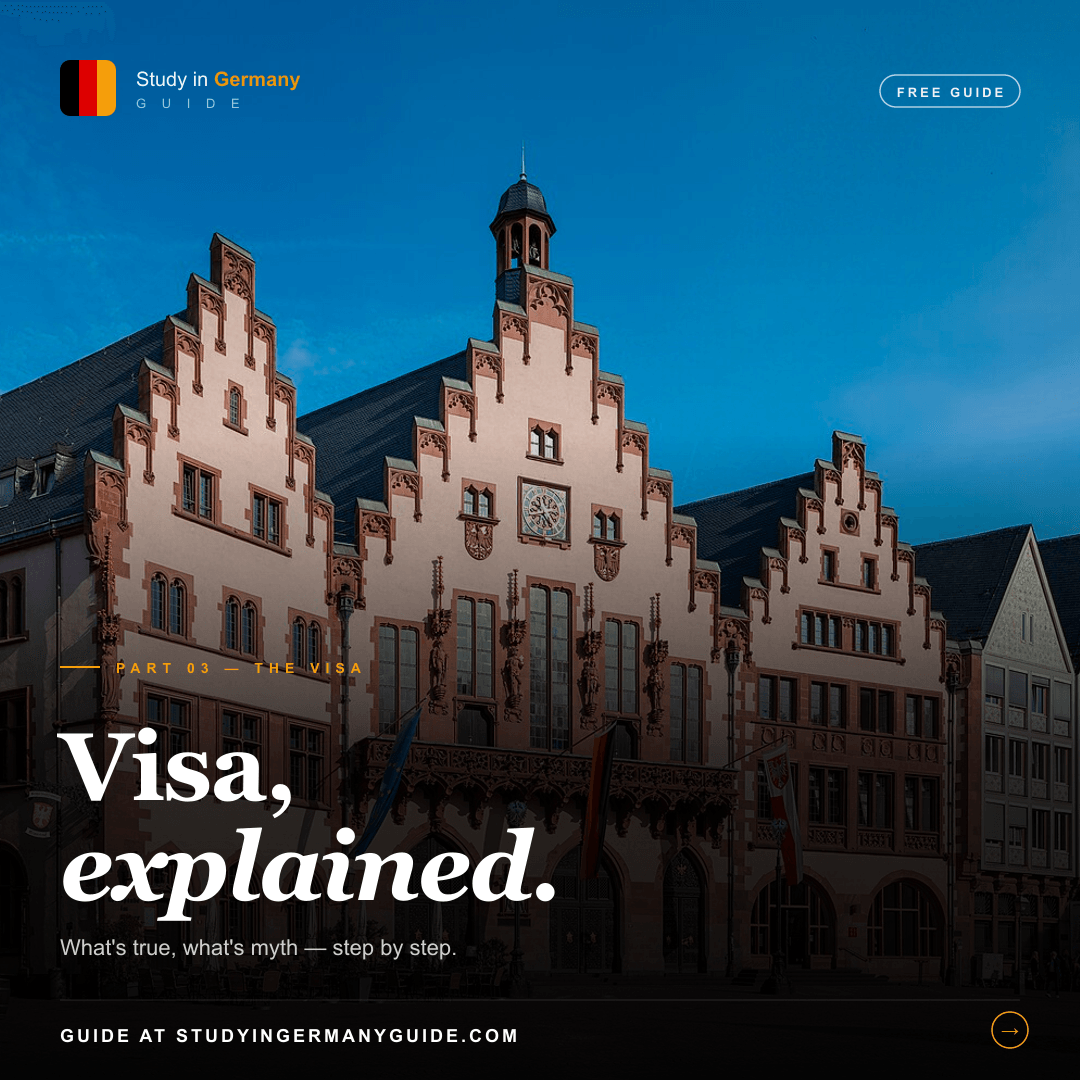
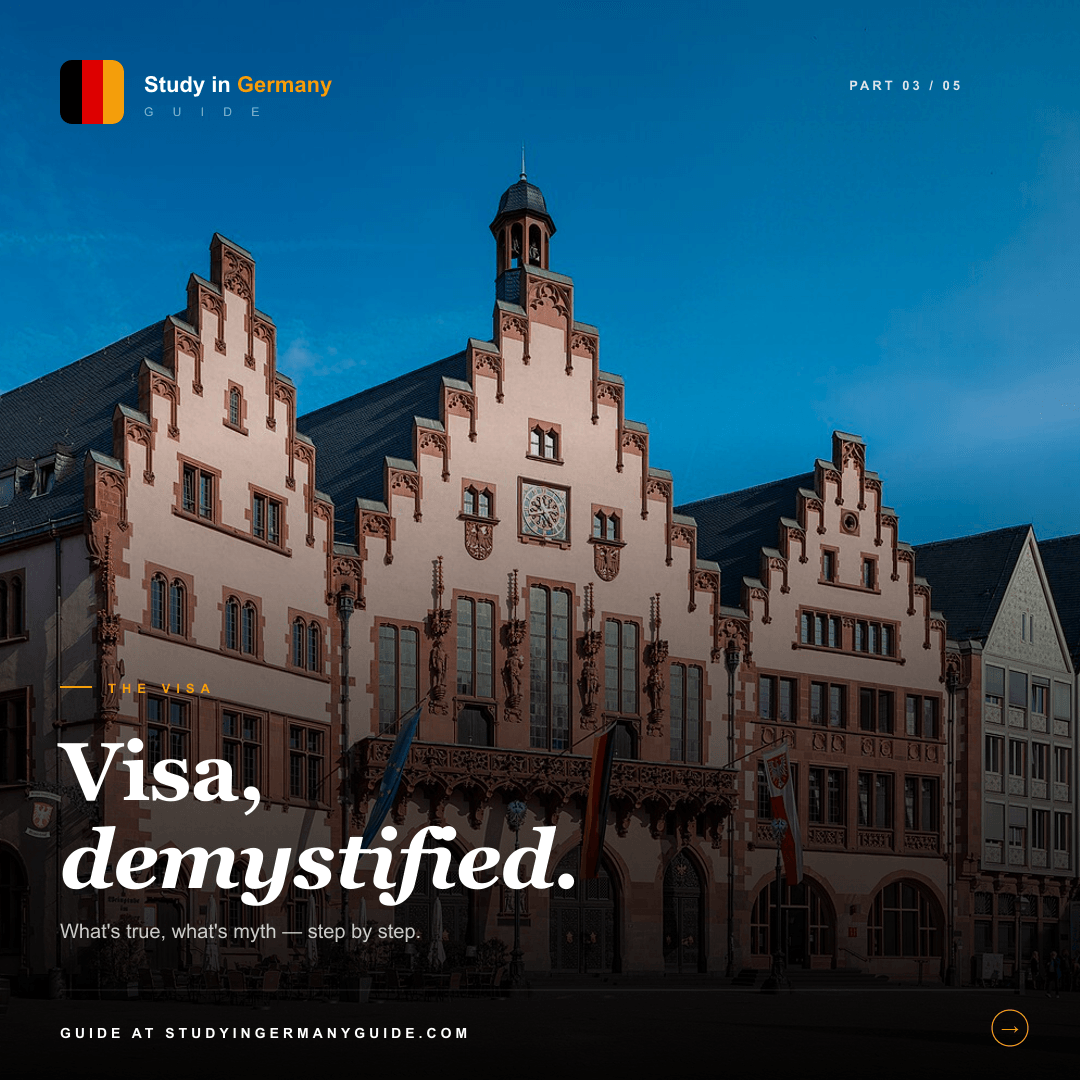
Refined editorial series: brand block + series indicator + decent typography

diff --git a/scripts/generate-posts.js b/scripts/generate-posts.js
@@ -1,21 +1,19 @@
-// Generate PREMIUM Instagram posts — refined editorial style
-// Real photo + smooth gradient + actual SG logo + refined typography
+// PREMIUM editorial Instagram series — real photo + actual brand logo + refined text
 import sharp from "sharp";
 import path from "path";
-import { readFile } from "fs/promises";
 
 const OUT = path.resolve("public/insta-posts");
 
 // ━━━━━━━━━━━━━━━━━━━━━━━━━━━━━━━━━━━━━━━━━━━━━
-// Smooth bottom gradient overlay
+// Smooth bottom gradient — text legibility on photo
 // ━━━━━━━━━━━━━━━━━━━━━━━━━━━━━━━━━━━━━━━━━━━━━
 function gradientOverlay() {
   return Buffer.from(`<svg xmlns="http://www.w3.org/2000/svg" width="1080" height="1080">
     <defs>
       <linearGradient id="g" x1="0" y1="0" x2="0" y2="1">
-        <stop offset="0%"  stop-color="black" stop-opacity="0.15"/>
+        <stop offset="0%"  stop-color="black" stop-opacity="0.20"/>
         <stop offset="40%" stop-color="black" stop-opacity="0.05"/>
-        <stop offset="70%" stop-color="black" stop-opacity="0.78"/>
+        <stop offset="65%" stop-color="black" stop-opacity="0.55"/>
         <stop offset="100%" stop-color="black" stop-opacity="0.95"/>
       </linearGradient>
     </defs>
@@ -24,73 +22,135 @@ function gradientOverlay() {
 }
 
 // ━━━━━━━━━━━━━━━━━━━━━━━━━━━━━━━━━━━━━━━━━━━━━
-// Top brand bar — actual SG logo + small caps wordmark
+// Brand block — matches real logo: flag + "Study in Germany" + GUIDE
 // ━━━━━━━━━━━━━━━━━━━━━━━━━━━━━━━━━━━━━━━━━━━━━
-function topBrandOverlay() {
+function brandBlock() {
   return Buffer.from(`<svg xmlns="http://www.w3.org/2000/svg" width="1080" height="1080">
-    <!-- Top-left brand block -->
+    <!-- Top-left: brand block -->
     <g transform="translate(60, 60)">
-      <!-- German flag mini icon (matches site header exactly) -->
+      <!-- German flag mini (rounded, matches logo exactly) -->
       <defs>
         <clipPath id="rf">
-          <rect x="0" y="0" width="56" height="56" rx="10" ry="10"/>
+          <rect x="0" y="0" width="64" height="64" rx="12" ry="12"/>
         </clipPath>
       </defs>
       <g clip-path="url(#rf)">
-        <rect x="0"  y="0" width="19" height="56" fill="#000000"/>
-        <rect x="19" y="0" width="18" height="56" fill="#DD0000"/>
-        <rect x="37" y="0" width="19" height="56" fill="#F59E0B"/>
+        <rect x="0"  y="0" width="22" height="64" fill="#000000"/>
+        <rect x="22" y="0" width="21" height="64" fill="#DD0000"/>
+        <rect x="43" y="0" width="21" height="64" fill="#F59E0B"/>
       </g>
-      <!-- Wordmark — refined, smaller -->
-      <text x="76" y="26" font-family="Arial, sans-serif" font-size="20" font-weight="400" fill="#FFFFFF" opacity="0.95">Study in <tspan fill="#F59E0B" font-weight="700">Germany</tspan></text>
-      <text x="76" y="48" font-family="Arial, sans-serif" font-size="13" font-weight="500" fill="#FFFFFF" opacity="0.6" letter-spacing="6">G U I D E</text>
-    </g>
 
-    <!-- Top-right: subtle badge -->
-    <g transform="translate(880, 75)">
-      <rect x="0" y="0" width="140" height="32" rx="16" fill="none" stroke="#FFFFFF" stroke-width="1.5" opacity="0.7"/>
-      <text x="70" y="22" font-family="Arial, sans-serif" font-size="13" font-weight="600" fill="#FFFFFF" text-anchor="middle" letter-spacing="3" opacity="0.9">FREE GUIDE</text>
+      <!-- Wordmark — Study in [Germany] -->
+      <text x="84" y="32"
+            font-family="Arial, sans-serif"
+            font-size="22"
+            font-weight="700"
+            fill="#FFFFFF">Study in <tspan fill="#F59E0B">Germany</tspan></text>
+
+      <!-- GUIDE — tracked subtitle (matches logo) -->
+      <text x="84" y="56"
+            font-family="Arial, sans-serif"
+            font-size="12"
+            font-weight="500"
+            fill="#FFFFFF"
+            opacity="0.55"
+            letter-spacing="8">G U I D E</text>
     </g>
   </svg>`);
 }
 
 // ━━━━━━━━━━━━━━━━━━━━━━━━━━━━━━━━━━━━━━━━━━━━━
-// Bottom content — refined editorial composition
+// Top-right: series indicator (e.g., "PART 01 / 05")
+// ━━━━━━━━━━━━━━━━━━━━━━━━━━━━━━━━━━━━━━━━━━━━━
+function seriesIndicator(label) {
+  return Buffer.from(`<svg xmlns="http://www.w3.org/2000/svg" width="1080" height="1080">
+    <g transform="translate(960, 90)">
+      <text x="0" y="0"
+            font-family="Arial, sans-serif"
+            font-size="13"
+            font-weight="600"
+            fill="#FFFFFF"
+            text-anchor="end"
+            opacity="0.85"
+            letter-spacing="3">${label}</text>
+    </g>
+  </svg>`);
+}
+
+// ━━━━━━━━━━━━━━━━━━━━━━━━━━━━━━━━━━━━━━━━━━━━━
+// Editorial content — refined headline + tagline + footer
 // ━━━━━━━━━━━━━━━━━━━━━━━━━━━━━━━━━━━━━━━━━━━━━
 function contentOverlay({ eyebrow, headline1, headline2, tagline, cta }) {
   return Buffer.from(`<svg xmlns="http://www.w3.org/2000/svg" width="1080" height="1080">
-    <!-- Eyebrow with refined accent -->
-    <g transform="translate(60, 660)">
-      <rect x="0" y="6" width="40" height="2" fill="#F59E0B"/>
-      <text x="56" y="13" font-family="Arial, sans-serif" font-size="14" font-weight="600" fill="#F59E0B" letter-spacing="6">${eyebrow}</text>
+    <!-- Eyebrow — minimal accent line + small caps -->
+    <g transform="translate(60, 680)">
+      <rect x="0" y="6" width="32" height="2" fill="#F59E0B"/>
+      <text x="48" y="13"
+            font-family="Arial, sans-serif"
+            font-size="13"
+            font-weight="600"
+            fill="#F59E0B"
+            letter-spacing="6">${eyebrow}</text>
     </g>
 
-    <!-- Headline — Georgia, lighter weight, more breathing room -->
-    <text x="60" y="800" font-family="Georgia, serif" font-size="96" font-weight="700" fill="#FFFFFF" letter-spacing="-2">${headline1}</text>
-    <text x="60" y="900" font-family="Georgia, serif" font-size="96" font-weight="700" fill="#FFFFFF" letter-spacing="-2" font-style="italic">${headline2}</text>
+    <!-- Editorial headline -->
+    <text x="60" y="800"
+          font-family="Georgia, serif"
+          font-size="82"
+          font-weight="700"
+          fill="#FFFFFF"
+          letter-spacing="-1">${headline1}</text>
+    <text x="60" y="888"
+          font-family="Georgia, serif"
+          font-size="82"
+          font-weight="700"
+          fill="#FFFFFF"
+          letter-spacing="-1"
+          font-style="italic">${headline2}</text>
 
     <!-- Tagline -->
-    <text x="60" y="955" font-family="Arial, sans-serif" font-size="22" font-weight="400" fill="#FFFFFF" opacity="0.8">${tagline}</text>
+    <text x="60" y="938"
+          font-family="Arial, sans-serif"
+          font-size="20"
+          font-weight="400"
+          fill="#FFFFFF"
+          opacity="0.78">${tagline}</text>
 
-    <!-- Refined divider -->
-    <line x1="60" y1="1000" x2="1020" y2="1000" stroke="#FFFFFF" stroke-width="0.5" opacity="0.25"/>
+    <!-- Hairline divider -->
+    <line x1="60" y1="990" x2="1020" y2="990" stroke="#FFFFFF" stroke-width="0.5" opacity="0.22"/>
 
-    <!-- Footer: website + arrow -->
-    <text x="60" y="1042" font-family="Arial, sans-serif" font-size="18" font-weight="600" fill="#FFFFFF" letter-spacing="3">${cta}</text>
-    <g transform="translate(1010, 1030)">
-      <circle cx="0" cy="0" r="18" fill="none" stroke="#F59E0B" stroke-width="1.5"/>
-      <text x="0" y="6" font-family="Arial, sans-serif" font-size="18" font-weight="700" fill="#F59E0B" text-anchor="middle">→</text>
+    <!-- Footer: website + arrow circle -->
+    <text x="60" y="1038"
+          font-family="Arial, sans-serif"
+          font-size="14"
+          font-weight="600"
+          fill="#FFFFFF"
+          letter-spacing="4">${cta}</text>
+
+    <g transform="translate(1010, 1028)">
+      <circle cx="0" cy="0" r="18" fill="none" stroke="#F59E0B" stroke-width="1.2"/>
+      <text x="0" y="6"
+            font-family="Arial, sans-serif"
+            font-size="18"
+            font-weight="500"
+            fill="#F59E0B"
+            text-anchor="middle">→</text>
     </g>
   </svg>`);
 }
 
-async function makePost({ photo, output, eyebrow, headline1, headline2, tagline, cta }) {
+async function makePost({
+  photo, output,
+  series,
+  eyebrow, headline1, headline2, tagline, cta,
+}) {
   await sharp(`public/cities/${photo}`)
     .resize(1080, 1080, { fit: "cover", position: "center" })
-    .modulate({ saturation: 1.08, brightness: 0.92 })
+    .modulate({ saturation: 1.05, brightness: 0.9 })
     .composite([
       { input: gradientOverlay(), blend: "over" },
-      { input: topBrandOverlay(), blend: "over" },
+      { input: brandBlock(), blend: "over" },
+      { input: seriesIndicator(series), blend: "over" },
       {
         input: contentOverlay({ eyebrow, headline1, headline2, tagline, cta }),
         blend: "over",
@@ -103,21 +163,23 @@ async function makePost({ photo, output, eyebrow, headline1, headline2, tagline,
 }
 
 async function run() {
-  // Post 1 — Welcome
+  // Post 1 — Welcome (intro)
   await makePost({
     photo: "berlin.jpg",
     output: "post-1.png",
+    series: "INTRO",
     eyebrow: "WELCOME",
     headline1: "Study in",
     headline2: "Germany.",
-    tagline: "Your complete guide — by students, for students.",
+    tagline: "A complete guide — written by students who've been there.",
     cta: "STUDYINGERMANYGUIDE.COM",
   });
 
-  // Post 2 — Coming up
+  // Post 2 — Coming up (teaser)
   await makePost({
     photo: "munich.jpg",
     output: "post-2.png",
+    series: "PREVIEW",
     eyebrow: "THIS WEEK",
     headline1: "What's",
     headline2: "coming.",
@@ -129,7 +191,8 @@ async function run() {
   await makePost({
     photo: "heidelberg.jpg",
     output: "post-3.png",
-    eyebrow: "PART 01 — THE WHY",
+    series: "PART 01 / 05",
+    eyebrow: "THE WHY",
     headline1: "Why",
     headline2: "Germany?",
     tagline: "World-class education. Tuition-free. A future, not a fee.",
@@ -140,7 +203,8 @@ async function run() {
   await makePost({
     photo: "cologne.jpg",
     output: "post-4.png",
-    eyebrow: "PART 02 — THE COST",
+    series: "PART 02 / 05",
+    eyebrow: "THE COST",
     headline1: "What",
     headline2: "it costs.",
     tagline: "Tuition, rent, food — the honest numbers, no fluff.",
@@ -151,14 +215,15 @@ async function run() {
   await makePost({
     photo: "frankfurt.jpg",
     output: "post-5.png",
-    eyebrow: "PART 03 — THE VISA",
+    series: "PART 03 / 05",
+    eyebrow: "THE VISA",
     headline1: "Visa,",
-    headline2: "explained.",
+    headline2: "demystified.",
     tagline: "What's true, what's myth — step by step.",
     cta: "GUIDE AT STUDYINGERMANYGUIDE.COM",
   });
 
-  console.log("\n5 refined editorial posts generated.");
+  console.log("\n5 refined editorial series posts ready.");
 }
 
 run().catch(console.error);
